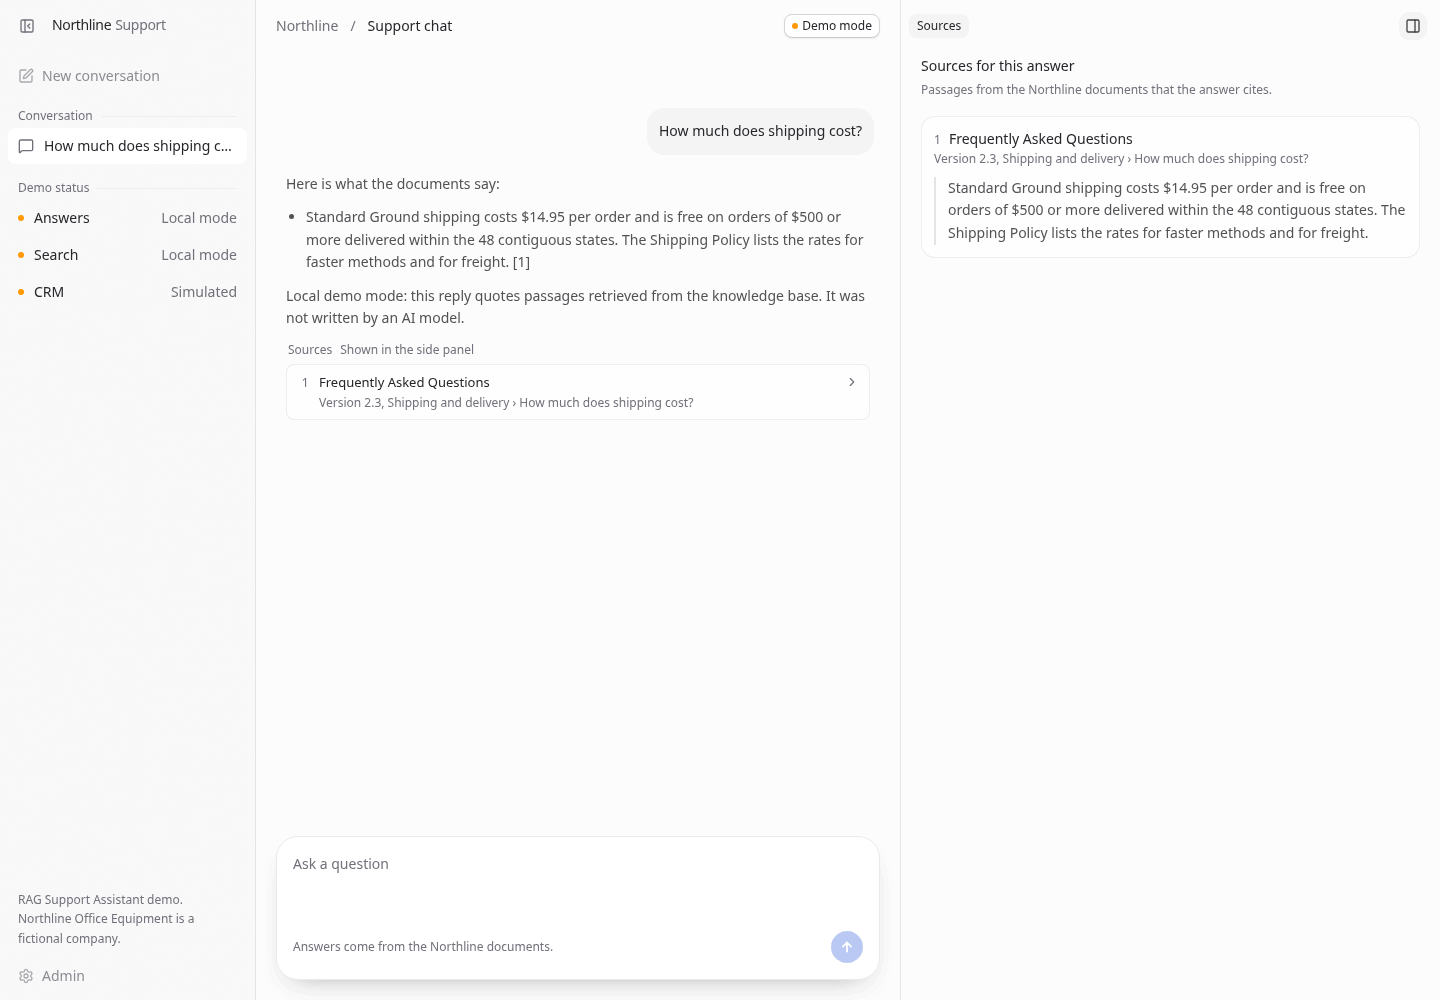
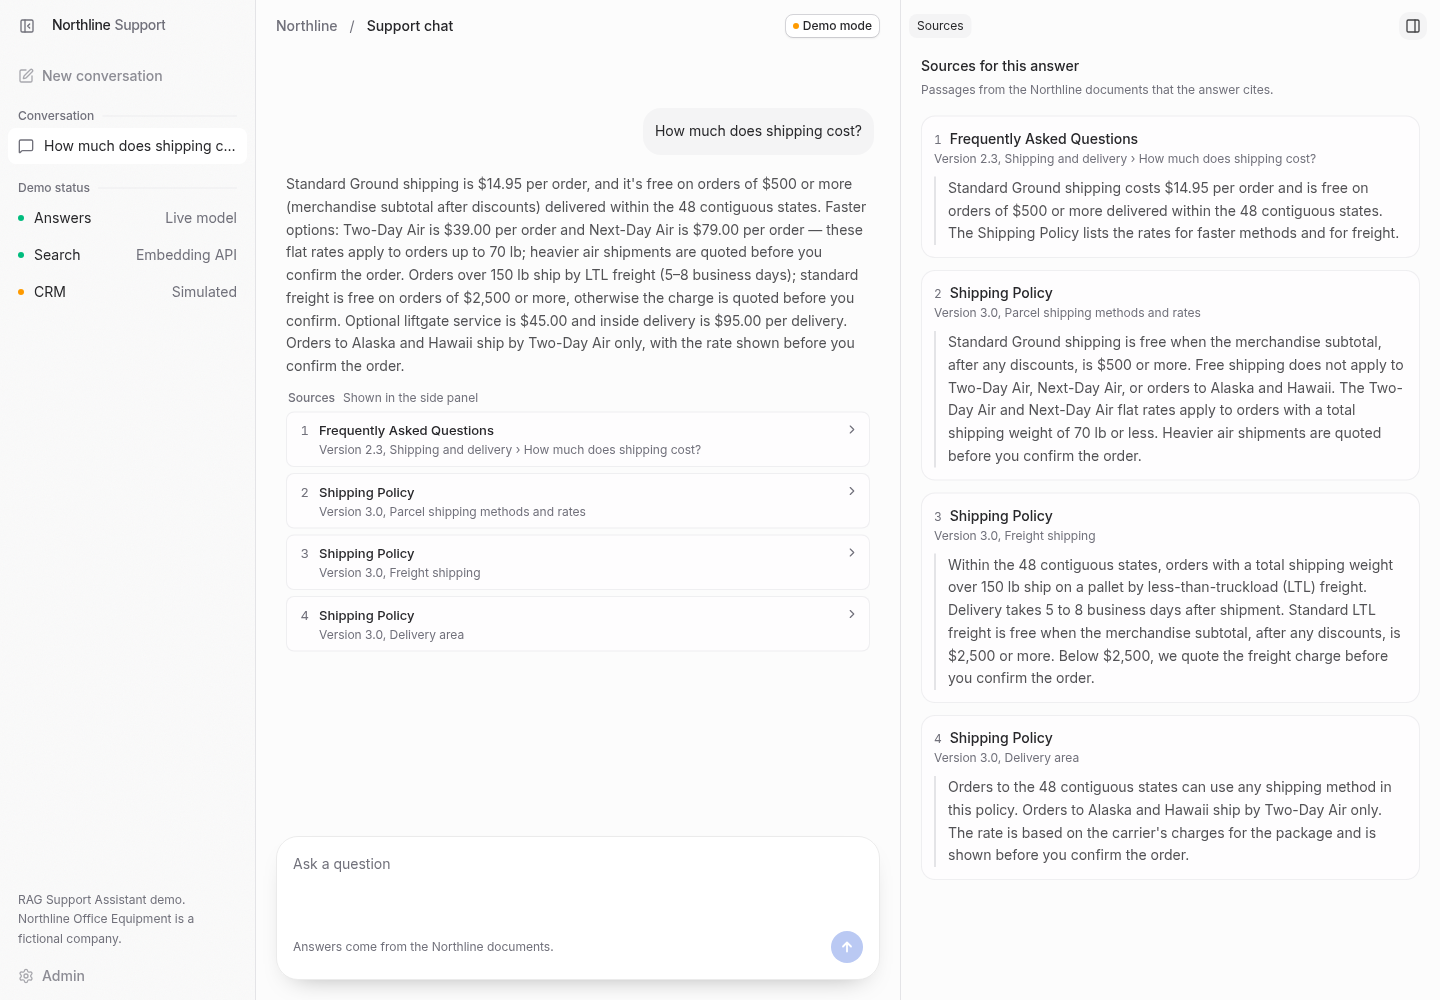
Clarify client evaluation evidence and show live-model demo frames

diff --git a/README.md b/README.md
@@ -6,9 +6,14 @@ This repository is a working demo. The assistant answers visitor questions from 
 
 It is for people who evaluate or build this kind of assistant: the repository shows the whole path from a document upload to a CRM record, with the limits stated. The demo company, Northline Office Equipment, is fictional.
 
-<img src="docs/screenshots/chat-answer-with-sources.png" alt="The visitor chat at desktop width: the question &quot;How much does shipping cost?&quot; with a reply that quotes the FAQ, and the side panel showing the cited passage with its document, version and section." width="960">
+**For clients**
+- [Try the demo locally](#quick-start), no API keys needed.
+- [Read the live-model evaluation](evals/reports/live-glm-5.3-flash/report.md).
+- Contact: [obi4.xyz](https://obi4.xyz) · [Ivan_orlov_00@pm.me](mailto:Ivan_orlov_00@pm.me).
 
-Screenshot taken in the local demo mode: the reply is assembled from quotes of the documents, without a language model. See [Screenshots](#screenshots).
+<img src="docs/screenshots/chat-answer-with-sources.png" alt="The visitor chat at desktop width: the question &quot;How much does shipping cost?&quot; with a live-model reply citing the documents, and the side panel showing the cited passages with their document, version and section." width="960">
+
+Live run: `z-ai/glm-5.3-flash` writes replies and `amazon/titan-embed-text-v2` provides embeddings via OpenRouter. CRM delivery is simulated. See [Screenshots](#screenshots).
 
 ## What the demo shows
 
@@ -21,35 +26,38 @@ Screenshot taken in the local demo mode: the reply is assembled from quotes of t
 
 ## Screenshots
 
-All frames are real runs of the demo on a fresh database in the local demo modes (`LLM_PROVIDER=local`, `EMBEDDING_PROVIDER=local`, `CRM_PROVIDER=simulated`): the replies are quotes of the documents, not text written by an AI model, and every delivery is labeled "simulated". The names and contacts are made up.
+The hero, handoff review, inquiry review and mobile frames are live-model runs on a fresh database: `z-ai/glm-5.3-flash` replies and `amazon/titan-embed-text-v2` embeddings via OpenRouter, with simulated CRM. The other frames are from local/simulated demo mode, as labeled below. The names and contacts are made up.
 
 <table>
   <tr>
     <td width="50%" valign="top">
       <img src="docs/screenshots/knowledge-gap-handoff-review.png" alt="A question the documents do not answer: the assistant says it could not find an answer and offers to pass the question to a person; the side panel shows the request for review with the contact details and a notice that delivery is simulated.">
-      <br>A question the documents do not answer: no guess, an offer to talk to a person, and a review step before anything is sent.
+      <br>Live-model, <code>z-ai/glm-5.3-flash</code>: a question the documents do not answer, an offer to talk to a person, and a review step before anything is sent.
     </td>
     <td width="50%" valign="top">
-      <img src="docs/screenshots/inquiry-review.png" alt="A purchase request that also asks about the warranty: the reply quotes the warranty passage first, then the side panel shows the filled inquiry for review with a Confirm and send button.">
-      <br>"I want 12 LP-420 printers, what is the warranty?": the question is answered first, the inquiry waits for confirmation.
+      <img src="docs/screenshots/inquiry-review.png" alt="A purchase request that also asks about the warranty: the live-model reply answers the warranty question first, then the side panel shows the filled inquiry for review with a Confirm and send button.">
+      <br>Live-model, <code>z-ai/glm-5.3-flash</code>: "I want 12 LP-420 printers, what is the warranty?" The question is answered first, the inquiry waits for confirmation.
     </td>
   </tr>
   <tr>
     <td width="50%" valign="top">
-      <img src="docs/screenshots/inquiry-delivered.png" alt="The same inquiry after confirmation: the side panel shows the delivery status Delivery simulated, one attempt, and the data that was sent.">
-      <br>After confirmation: the delivery status and the data that was sent. The simulated CRM receives nothing and the interface says so.
+      <img src="docs/screenshots/inquiry-delivered.png" alt="A local-mode inquiry after confirmation: the side panel shows the delivery status Delivery simulated, one attempt, and the data that was sent.">
+      <br>Local/simulated mode. After confirmation: the delivery status and the data that was sent. The simulated CRM receives nothing and the interface says so.
     </td>
     <td width="50%" valign="top">
       <img src="docs/screenshots/admin-inquiries-delivery-log.png" alt="The admin page, Inquiries tab: three inquiries with their delivery status, and the delivery log of one of them with two failed attempts and a successful third.">
-      <br>Admin, inquiries: every inquiry with its status. The open log shows two temporary errors (the <code>+fail2</code> tag) and a delivery on the third attempt.
+      <br>Local/simulated mode. Admin, inquiries: every inquiry with its status. The open log shows two temporary errors (the <code>+fail2</code> tag) and a delivery on the third attempt.
     </td>
   </tr>
   <tr>
     <td width="50%" valign="top">
-      <img src="docs/screenshots/mobile-chat-answer.png" alt="The visitor chat on a 390 by 844 pixel screen: the question, the reply with a quoted passage and one source card." width="260">
-      <br>The chat at 390 by 844 pixels.
+      <img src="docs/screenshots/mobile-chat-answer.png" alt="The visitor chat on a 390 by 844 pixel screen: the shipping question and the live-model reply with document citations." width="260">
+      <br>Live-model, <code>z-ai/glm-5.3-flash</code>: the chat at 390 by 844 pixels.
     </td>
-    <td width="50%" valign="top"></td>
+    <td width="50%" valign="top">
+      <img src="docs/screenshots/local-mode-chat-answer.png" alt="Local demo mode: a shipping answer assembled from document quotes, with its cited passage.">
+      <br>Local demo mode: the reply quotes documents without an LLM. CRM delivery is simulated.
+    </td>
   </tr>
 </table>
 
@@ -73,7 +81,7 @@ Three common shortcuts: a general chat model with no company context, a bot whos
 | Updating knowledge | Not possible | Edit the prompt by hand, within its size limit | Change the prompt or the code | Upload, replace or delete a document; an old version is not cited |
 | Attempts to rewrite the instructions | Left to the model | Left to the model | Left to the model | A pattern-based override guard on messages and document text, covered by 5 evaluation cases |
 | Actions | Text only | Text only | Text only | Inquiry and human handoff after visitor confirmation; CRM delivery with an idempotency key, retries and an attempt log |
-| Measured quality | No built-in evaluation | No built-in evaluation | No built-in evaluation | 40 evaluation cases; with a live LLM, 37 of 40 passed after an AI coding agent reviewed the open checks ([report](evals/reports/live-glm-5.3-flash/report.md)) |
+| Measured quality | No built-in evaluation | No built-in evaluation | No built-in evaluation | Live-model automated first pass: 15 pass / 3 fail / 22 needing review. After review: 37/40 passed. Reviewer: Claude, the AI coding agent that fixed the clarification citations and made this run, not an independent human reviewer ([report](evals/reports/live-glm-5.3-flash/report.md)) |
 
 Retrieval and the citation check reduce made-up answers; they do not remove them. The model can still misread a passage it found and cite it. These results were measured on the demo corpus only; see [Evaluation](#evaluation) and [Limitations](#limitations).
 
@@ -95,7 +103,7 @@ Version 1. The scenario above works end to end in the demo modes and is covered 
 | Purchase inquiries and human handoff: draft, preview, confirmation, delivery, retries | Works with the simulated CRM. The HubSpot provider is tested against an in-memory fake of the HubSpot API only. |
 | Visitor chat and admin page | Work. Checked in a browser on a real backend at 390 by 844 and 1440 by 1000 pixels. |
 
-**Evaluated once with live models.** Through OpenRouter, with `z-ai/glm-5.3-flash` and `amazon/titan-embed-text-v2`: 37 of the 40 evaluation cases passed after a review of the open checks by an AI coding agent. The report is in [`evals/reports/live-glm-5.3-flash/`](evals/reports/live-glm-5.3-flash/report.md).
+**Evaluated once with live models.** Through OpenRouter, with `z-ai/glm-5.3-flash` and `amazon/titan-embed-text-v2`: automated first pass 15 pass / 3 fail / 22 needing review; after review 37/40 passed. Reviewer: Claude, the AI coding agent that fixed the clarification citations and made this run, not an independent human reviewer. The report is in [`evals/reports/live-glm-5.3-flash/`](evals/reports/live-glm-5.3-flash/report.md).
 
 **Not verified.** No HubSpot account and no Docker host were available, so these have never been run by hand:
 
@@ -203,6 +211,8 @@ Every setting has a default that runs the demo, and every setting is listed with
 
 ## Evaluation
 
+Live-model automated first pass: **15 pass / 3 fail / 22 needing review**. After review: **37/40 passed**. The reviewer was Claude, the AI coding agent that fixed the clarification citations and made this run (November 14, 2026), not an independent human reviewer. It read every listed reply and its cited excerpts in `results.json` and compared them with the check, case notes and, where needed, corpus text. A second AI agent drafted verdicts independently; the two agreed on all 40 items. See the exact [reviewer and method](evals/reports/live-glm-5.3-flash/manual-review.json).
+
 `make eval` runs 40 evaluation cases on an isolated database and writes a report and a machine-readable results file to `evals/reports/latest/`. The cases cover answerable questions, questions the knowledge base cannot answer, multi-turn conversations and attempts to override instructions.
 
 `make eval` uses the LLM and embedding providers set in `.env`. After `make configure` with a live API, it calls that API and the run costs money; to run it in the demo modes, prefix it with `LLM_PROVIDER=local EMBEDDING_PROVIDER=local`. A run in the local modes measures retrieval by shared words and the rules that assemble a reply from quotes, not the quality of an LLM. The exit code 0 means that the run completed, not that the cases passed: read the report.
@@ -238,7 +248,7 @@ The demo is deliberately narrow, and an implementation for a client keeps the sa
 
 - **One document source.** The company's own documents, uploaded on the admin page or listed in a manifest like [`knowledge-base/northline/manifest.json`](knowledge-base/northline/manifest.json). The assistant answers from the active versions only.
 - **One channel.** A web chat. Email, messengers and voice are not part of it.
-- **One CRM process.** A confirmed inquiry becomes a contact with a note in HubSpot. Deals, pipelines, owners and custom properties are not written.
+- **One CRM process.** A confirmed inquiry becomes a contact with a note in HubSpot. HubSpot delivery has not yet been tested on a live HubSpot account, only against an in-memory fake. Deals, pipelines, owners and custom properties are not written.
 
 What is configured without code: the LLM and embedding API and models, the CRM mode and key, the admin token, the documents, the upload limit, delivery attempts and retry timing.
 
